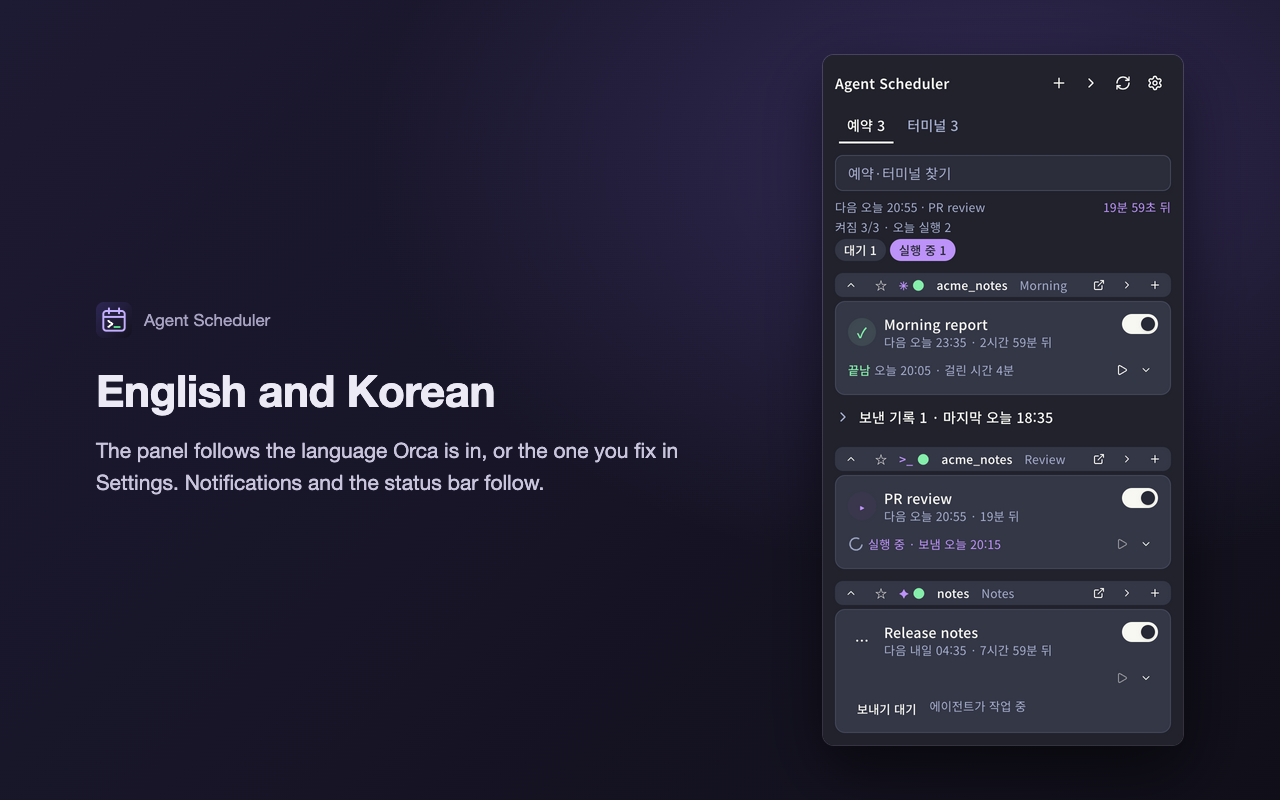
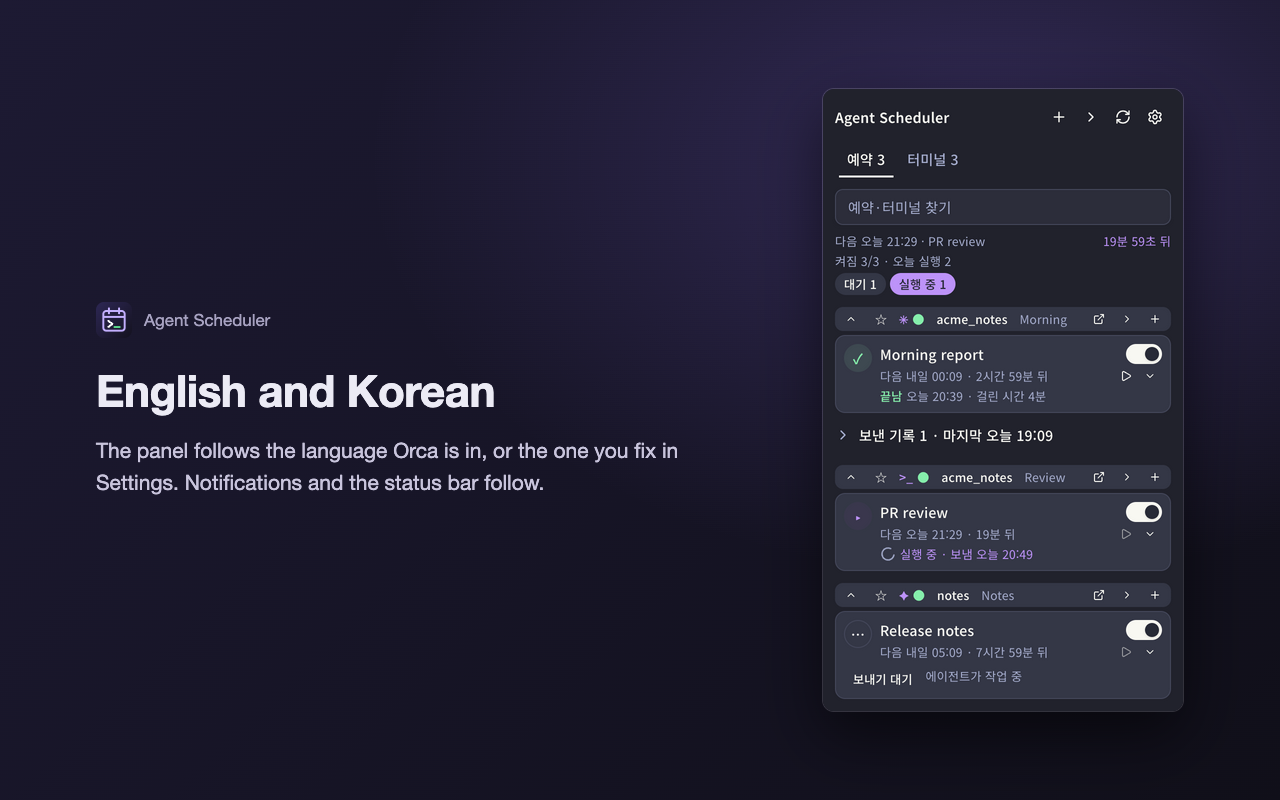
fix: 0.12.1 — 카드의 글줄을 동그라미 옆 한 단으로(실제 패널에서 어색하던 세 곳)
0.12.0 카드를 실제 패널에서 보니 세 곳이 어색했다.

- 이름·다음 실행은 동그라미 옆에서, 지난 결과는 카드 왼쪽 끝에서 시작해 글줄의 왼쪽 끝이 둘이었다
  → 지난 결과를 같은 단의 셋째 줄로.
- 아직 실행하지 않은 예약의 카드에 버튼 둘만 있는 빈 줄이 남았다
  → 지금 보내기(▷)·펼치기(⌄)를 다음 실행 줄로 올려(0.12.0 전 자리) 그 카드는 두 줄로 끝난다.
- 회색 동그라미는 채운 색이 카드 바탕과 같아 원이 보이지 않았다
  → 회색 표시에는 테두리. 꺼진 예약은 빈 동그라미.

카드 높이: 접힌 카드 약 74px(0.12.0 은 90), 아직 실행하지 않은 카드 약 58px(90). 0.11.2(91·65)보다도 낮다.
280px 에서는 다음 실행 줄이 버튼 옆에서 두 줄로 접히고, 두 줄이던 이름은 한 줄에 들어간다.

README·플러그인 페이지 그림을 새 배치로 다시 찍음.
시험 180개 · 변이 9/9(패널) · 실제 패널 280·457px · 시나리오 밝은·어두운 테마 확인.

Changed region(s): [[0.625, 0.0625, 0.9375, 0.9375], [0.8438, 0.25, 0.9375, 0.3125]]

diff --git a/src/panel.test.tsx b/src/panel.test.tsx
@@ -255,34 +255,73 @@ test('on top: how many are on and ran today, in words; badges only for waiting, 
 test('a card starts with a round mark: what is going on now, else how the last run went; folded, the result is a word', async () => {
   const view = await mount(panel, { host: host() })
   type Last = NonNullable<Schedule['lastStatus']>
+  type Node = { type?: string; props?: Record<string, unknown>; children?: unknown[] }
   const ran = (status: Last): Partial<Schedule> => ({ lastStatus: status, history: [{ at: Date.now() - 60_000, status, tookMs: 60_000 }] })
-  const mark = async (over: Partial<Schedule>): Promise<[string, unknown][]> => {
+  const texts = (node: unknown): string[] => (typeof node === 'string' ? [node] : ((node as Node | null)?.children ?? []).flatMap(texts))
+  const count = (node: unknown, type: string): number =>
+    !node || typeof node !== 'object' ? 0 : ((node as Node).type === type ? 1 : 0) + ((node as Node).children ?? []).reduce((n: number, c) => n + count(c, type), 0)
+  // The row a card starts with: the round mark, then the column beside it.
+  const head = (node: unknown): [Node, Node] | null => {
+    if (!node || typeof node !== 'object') return null
+    const children = (node as Node).children ?? []
+    const first = children[0] as Node | undefined
+    if (first && typeof first === 'object' && first.props?.radius === 'full') return [first, children[1] as Node]
+    for (const child of children) {
+      const found = head(child)
+      if (found) return found
+    }
+    return null
+  }
+  const draw = async (over: Partial<Schedule>): Promise<[Node, Node]> => {
     await view.post('schedules.changed', {
       schedules: [{ ...blankSchedule('s1'), name: 'Morning report', terminal: { ...open[0] }, nextRunAt: at(9, 0, 1), ...over }]
     })
-    return view.findAll({ type: 'Text', text: /^[•✓✕–?○▸!…]$/ }).map((e) => [e.text, e.props.tone])
+    const found = head(view.tree())
+    assert.ok(found, 'the card starts with its mark')
+    return found
   }
-  assert.deepEqual(await mark({}), [['•', 'neutral']], 'no run yet')
-  assert.deepEqual(await mark(ran('success')), [['✓', 'success']])
-  assert.deepEqual(await mark(ran('done')), [['✓', 'success']], 'ended without a result line — still a finished run')
-  assert.deepEqual(await mark(ran('failed')), [['✕', 'danger']])
-  assert.deepEqual(await mark(ran('skipped')), [['–', 'warning']])
-  assert.deepEqual(await mark(ran('doneWaiting')), [['?', 'warning']], 'stopped at a question')
+  // The glyph, the colour, and whether the circle has a line: a neutral fill is the card's own colour.
+  const mark = async (over: Partial<Schedule>): Promise<unknown[]> => {
+    const [circle] = await draw(over)
+    return [texts(circle).join(''), circle.props?.background, circle.props?.border === true]
+  }
+  assert.deepEqual(await mark({}), ['•', 'neutral', true], 'no run yet')
+  assert.deepEqual(await mark(ran('success')), ['✓', 'success', false])
+  assert.deepEqual(await mark(ran('done')), ['✓', 'success', false], 'ended without a result line — still a finished run')
+  assert.deepEqual(await mark(ran('failed')), ['✕', 'danger', false])
+  assert.deepEqual(await mark(ran('skipped')), ['–', 'warning', false])
+  assert.deepEqual(await mark(ran('doneWaiting')), ['?', 'warning', false], 'stopped at a question')
   // What is going on now comes before the last result.
-  assert.deepEqual(await mark({ ...ran('failed'), sentAt: Date.now() }), [['▸', 'accent']], 'running')
-  assert.deepEqual(await mark({ ...ran('success'), pendingSince: Date.now() - 60_000, waitNote: { code: 'typing' } }), [['!', 'warning']], 'a person must act')
-  assert.deepEqual(await mark({ ...ran('success'), pendingSince: Date.now() }), [['…', 'neutral']], 'waiting its turn')
-  assert.deepEqual(await mark({ ...ran('success'), terminal: { ...open[0], handle: 'h-gone', leafId: 'l-gone' } }), [['!', 'warning']], 'on, and its terminal is closed')
-  assert.deepEqual(await mark({ ...ran('failed'), enabled: false }), [['○', 'neutral']], 'off says only that')
+  assert.deepEqual(await mark({ ...ran('failed'), sentAt: Date.now() }), ['▸', 'accent', false], 'running')
+  assert.deepEqual(await mark({ ...ran('success'), pendingSince: Date.now() - 60_000, waitNote: { code: 'typing' } }), ['!', 'warning', false], 'a person must act')
+  assert.deepEqual(await mark({ ...ran('success'), pendingSince: Date.now() }), ['…', 'neutral', true], 'waiting its turn')
+  assert.deepEqual(
+    await mark({ ...ran('success'), terminal: { ...open[0], handle: 'h-gone', leafId: 'l-gone' } }),
+    ['!', 'warning', false],
+    'on, and its terminal is closed'
+  )
+  assert.deepEqual(await mark({ ...ran('failed'), enabled: false }), ['', 'neutral', true], 'off says only that: an empty circle')
   assert.deepEqual(
     await mark({ ...ran('failed'), enabled: false, terminal: { ...open[0], handle: 'h-gone', leafId: 'l-gone' } }),
-    [['○', 'neutral']],
+    ['', 'neutral', true],
     'off with a closed terminal is still just off'
   )
 
-  // Folded: the mark has the colour, so the result is a word. Opened: the badge, with what the agent wrote.
-  await mark(ran('failed'))
+  // One column beside the mark, so every line starts at the same edge: the name with its switch, the
+  // next run with the two buttons, then the last run. Not run yet, a card ends after two lines.
   const failed = statusText('en', 'failed')
+  const [, fresh] = await draw({})
+  assert.equal(fresh.children?.length, 2, 'not run yet: no line kept empty for the buttons')
+  assert.equal(count(fresh.children?.[0], 'Switch'), 1)
+  assert.equal(count(fresh.children?.[1], 'IconButton'), 2, 'send now and open sit beside the next run')
+  const [, withRun] = await draw(ran('failed'))
+  assert.equal(withRun.children?.length, 3)
+  assert.ok(texts(withRun.children?.[2]).includes(failed), 'the last run is the third line of the same column')
+  const [, going] = await draw({ ...ran('failed'), sentAt: Date.now() })
+  assert.equal(count(going.children?.[2], 'Spinner'), 1, 'a run that is going takes that line')
+
+  // Folded: the mark has the colour, so the result is a word. Opened: the badge, with what the agent wrote.
+  await draw(ran('failed'))
   assert.equal(view.find({ type: 'Badge', text: failed }), null, 'no badge beside the mark')
   assert.equal(view.find({ type: 'Text', text: failed })?.props.tone, 'danger')
   await unfold(view)
@@ -293,7 +332,7 @@ test('a card starts with a round mark: what is going on now, else how the last r
   const lines: unknown[] = []
   const walk = (node: unknown): void => {
     if (!node || typeof node !== 'object') return
-    const { props, children } = node as { props?: Record<string, unknown>; children?: unknown[] }
+    const { props, children } = node as Node
     if (props?.background === 'card') lines.push(props.border)
     children?.forEach(walk)
   }

diff --git a/src/panel.tsx b/src/panel.tsx
@@ -504,7 +504,7 @@ const statusTone = (status: Schedule['lastStatus']): 'success' | 'danger' | 'war
           : 'neutral'
 
 /** The round mark at a card's left — what a glance takes in first. What is going on now comes before how
- *  the last run went, and a schedule that is off says only that. */
+ *  the last run went, and a schedule that is off says only that: an empty circle. */
 const markOf = (
   s: Schedule,
   now: { urgent: boolean; queued: boolean; gone: boolean }
@@ -512,7 +512,7 @@ const markOf = (
   if (s.sentAt !== null) return { tone: 'accent', glyph: '▸' }
   if (now.urgent || (now.gone && s.enabled)) return { tone: 'warning', glyph: '!' }
   if (now.queued) return { tone: 'neutral', glyph: '…' }
-  if (!s.enabled) return { tone: 'neutral', glyph: '○' }
+  if (!s.enabled) return { tone: 'neutral', glyph: '' }
   const last = s.history[0]
   if (!last) return { tone: 'neutral', glyph: '•' }
   const tone = statusTone(last.status)
@@ -856,23 +856,51 @@ function ScheduleRow({ s, live }: { s: Schedule; live: TerminalOption | null }) 
     // A filled surface, like a list of cards rather than a form. The border stays: a light theme
     // gives the card surface the panel's own colour, and only the line then shows where a card ends.
     // Just saved: tinted for a moment — no badge row, so nothing below moves when it goes.
-    <Box border={saved ? 'success' : true} background={saved ? 'success' : 'card'} radius="lg" padding="md" gap="sm">
-      <Box direction="row" align="center" gap="sm">
-        <Box shrink={false} radius="full" background={mark.tone} width={28} height={28} align="center" justify="center">
-          <Text size="sm" weight="semibold" tone={mark.tone}>
-            {mark.glyph}
-          </Text>
+    <Box border={saved ? 'success' : true} background={saved ? 'success' : 'card'} radius="lg" padding="sm" gap="xs">
+      <Box direction="row" align="start" gap="sm">
+        <Box
+          shrink={false}
+          radius="full"
+          // A neutral fill is the card's own colour: without the line the circle is not there.
+          border={mark.tone === 'neutral'}
+          background={mark.tone}
+          width={28}
+          height={28}
+          align="center"
+          justify="center"
+        >
+          {mark.glyph ? (
+            <Text size="sm" weight="semibold" tone={mark.tone}>
+              {mark.glyph}
+            </Text>
+          ) : null}
         </Box>
-        {/* The name shares its row with the switch only — next to the buttons a long name broke a word per line. */}
+        {/* One column beside the mark, so every line of text starts at the same edge: the name with its
+            switch, the next run with the two buttons, then the last run — a schedule that has not run
+            yet ends after two lines instead of keeping an empty one for the buttons. */}
         <Box grow shrink minWidth={0}>
           <Switch label={soft(s.name)} checked={s.enabled} onChange={(enabled) => void plugin.request('schedules.toggle', { id: s.id, enabled })} />
-          <Text size="xs" muted>
-            {nextText}
-          </Text>
-        </Box>
-      </Box>
-      <Box direction="row" align="center" gap="xs">
-        <Box grow shrink minWidth={0}>
+          <Box direction="row" align="center" gap="xs">
+            <Box grow shrink minWidth={0}>
+              <Text size="xs" muted>
+                {nextText}
+              </Text>
+            </Box>
+            <Box shrink={false}>
+              <Toolbar label={s.name} gap="none">
+                <IconButton
+                  icon="play"
+                  size="xs"
+                  variant="ghost"
+                  label={u.sendNow}
+                  tooltip={sendBlock ?? u.sendNowTip}
+                  disabled={sendBlock !== null}
+                  onPress={() => void plugin.request('schedules.runNow', { id: s.id })}
+                />
+                <IconButton icon={open ? 'collapse' : 'expand'} size="xs" variant="ghost" label={open ? u.less : u.more} onPress={() => toggleCard(s.id)} />
+              </Toolbar>
+            </Box>
+          </Box>
           {s.sentAt !== null ? (
             <Row gap="xs">
               <Spinner label={u.running} labelHidden />
@@ -881,20 +909,6 @@ function ScheduleRow({ s, live }: { s: Schedule; live: TerminalOption | null }) 
           ) : last ? (
             <RecordLine r={last} glance={!open} />
           ) : null}
-        </Box>
-        <Box shrink={false}>
-          <Toolbar label={s.name} gap="none">
-            <IconButton
-              icon="play"
-              size="xs"
-              variant="ghost"
-              label={u.sendNow}
-              tooltip={sendBlock ?? u.sendNowTip}
-              disabled={sendBlock !== null}
-              onPress={() => void plugin.request('schedules.runNow', { id: s.id })}
-            />
-            <IconButton icon={open ? 'collapse' : 'expand'} size="xs" variant="ghost" label={open ? u.less : u.more} onPress={() => toggleCard(s.id)} />
-          </Toolbar>
         </Box>
       </Box>
       {note && urgent ? (

diff --git a/README.md b/README.md
@@ -117,7 +117,7 @@ The calendar icon in the right sidebar opens the **Agent Scheduler** panel. It i
 | Tabs and search | **Schedules N** and **Terminals N**. Entering Terminals reads the terminal list afresh (the reload button spins meanwhile; what is there stays in sight). The search box under them filters both, by terminal title, workspace, agent or schedule name, and opens a folded block that holds a match; a search that hides everything says so with **Clear search** |
 | Schedules | What runs next, with the time left counting down every second while the panel is in view, then one line of words — how many are on and how many runs went out today (`4 of 4 on · 2 runs today`) — with badges only for what is out of the ordinary: waiting, running, need attention. Below that, one block per terminal. With nothing scheduled, one line and an **Open Terminals** button |
 | Terminal line | Favorite (☆, and ★ once it is one), the agent's mark (Claude Code ✳, Codex `>_`, Gemini CLI ✦), a green dot while the terminal is open, workspace and title. In a block, pressing the workspace folds the block, as rows do in Orca's own trees; a folded block reads `2 schedules · next tomorrow 09:00`. ↗ brings Orca to that terminal (`orca terminal switch`). Then **Send once** and **New schedule for this terminal** |
-| Schedule in a block | A card on a filled surface with a line around it, folded until it is opened. At its left a round mark for a glance down the list: what is going on now — running ▸, a person must act !, waiting to send … — else how the last run went — ✓ succeeded or done, ✕ failed, – skipped, ? stopped at a question — and ○ when the schedule is off. Folded: the mark; the switch with the name; under it the next run with the time left (`next today 19:13 · in 2h 33m`); then how the last run went as a word in the mark's colour with when and how long (a spinner while a run is going); and two buttons, send now (▷) and open (⌄). Opened in place: the result as a badge, what the agent wrote and its link when the schedule asks for a result, how the run's end was seen, the rule (with `/clear` when it clears first), the start of the prompt, **Edit**, **Duplicate** and **Delete**, and the history. **Send now** is one run at a time: it is off while the schedule waits to send or its run is going, and when its terminal is closed, and the tooltip says which. **Delete** asks in the card first, in the buttons' place, with how many past results go with it; Undo then stays for 8 seconds in the deleted schedule's place. A run waiting its turn has a grey `Waiting to send` badge and the reason; an orange warning appears only when a person must act (the same ones counted on top and in the status bar), with the way out beside it — **Pick a terminal**, or **Show this terminal in Orca** to answer a dialog or clear the input box — and both show on a folded card too |
+| Schedule in a block | A card on a filled surface with a line around it, folded until it is opened. At its left a round mark for a glance down the list: what is going on now — running ▸, a person must act !, waiting to send … — else how the last run went — ✓ succeeded or done, ✕ failed, – skipped, ? stopped at a question — a dot when it has not run yet, and an empty circle when the schedule is off. Folded, one column beside the mark so every line starts at the same edge: the switch with the name; the next run with the time left (`next today 19:13 · in 2h 33m`) and two buttons, send now (▷) and open (⌄); then how the last run went as a word in the mark's colour with when and how long (a spinner while a run is going) — a schedule that has not run yet ends after two lines. Opened in place: the result as a badge, what the agent wrote and its link when the schedule asks for a result, how the run's end was seen, the rule (with `/clear` when it clears first), the start of the prompt, **Edit**, **Duplicate** and **Delete**, and the history. **Send now** is one run at a time: it is off while the schedule waits to send or its run is going, and when its terminal is closed, and the tooltip says which. **Delete** asks in the card first, in the buttons' place, with how many past results go with it; Undo then stays for 8 seconds in the deleted schedule's place. A run waiting its turn has a grey `Waiting to send` badge and the reason; an orange warning appears only when a person must act (the same ones counted on top and in the status bar), with the way out beside it — **Pick a terminal**, or **Show this terminal in Orca** to answer a dialog or clear the input box — and both show on a folded card too |
 | Sent records | One-off sends sit folded under their terminal as `Sent N · last today 12:03`. Ones not sent yet are counted apart — `Waiting to send 1 · Sent 2` — so a send stuck on a closed terminal never reads as sent. A new send opens the group and it stays open when that send ends. A finished one shows its result as a schedule's does — how long it took, why it failed, the summary and link. The newest 20 finished ones are kept |
 | Terminals | Every open agent terminal, each on the same line as above. With none, it says to run claude, codex or gemini in an Orca terminal, with a reload button (the form's terminal picker says the same). When the worker found no Orca CLI it says that instead, since no terminal could show up. A terminal with schedules shows `Schedules N`; pressing it opens that block on the Schedules tab |
 | Favorites | Favorite terminals go first on both tabs; kept across Orca restarts by pane |

diff --git a/CHANGELOG.md b/CHANGELOG.md
@@ -2,6 +2,15 @@
 
 Versions are tags (`vX.Y.Z`); `orca plugin update gook-lab.agent-scheduler` moves to the newest one. Each version's notes are also a [release](https://github.com/gook-lab/orca-agent-scheduler/releases), with a summary in Korean.
 
+## 0.12.1 — 2026-11-17
+
+The card from 0.12.0, tidied — on the real panel it looked off in three places.
+
+- **Every line of a card starts at the same edge.** The name and the next run began beside the round mark while the last result began under it, at the card's left, so the mark looked like it floated on its own. The last result is now the third line of the same column.
+- **A schedule that has not run yet is two lines.** Its card kept a line that held nothing but the two buttons. Send now (▷) and open (⌄) sit beside the next run again, as they did before 0.12.0.
+- **A grey mark is a circle again.** A neutral fill is the card's own colour, so "not run yet", "waiting to send" and "off" showed a glyph with no circle around it. They have a line around them now, and off is an empty circle — the `Off` under the name says the rest.
+- Cards are lower: about 74 px folded (90 in 0.12.0) and 58 px for a schedule that has not run yet (90) — lower than in 0.11.2 too (91 and 65). At 280 px the next run wraps to a second line beside the buttons, and a name that broke in two fits on one. Checked on the real panel at 280 and 457 px, and in both themes with the scenarios.
+
 ## 0.12.0 — 2026-11-17
 
 The schedule card, redrawn, and five ways a check could go wrong, closed.
